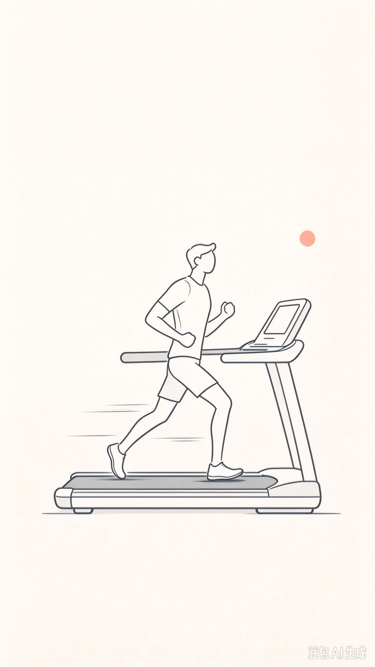
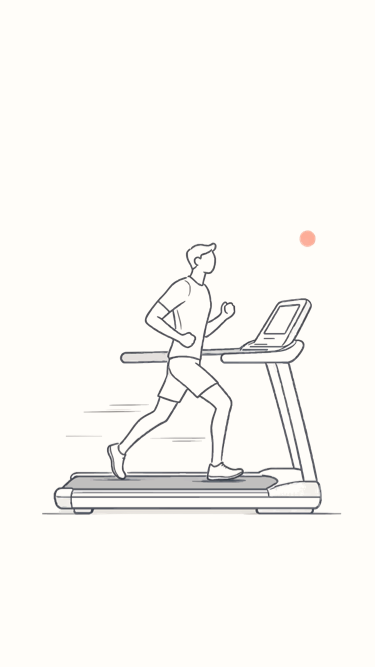
Replace launch artwork with treadmill SVG

diff --git a/Docs/LaunchScreen.md b/Docs/LaunchScreen.md
@@ -1,11 +1,13 @@
 # 启动图片（2026-10-15）
 
-- 来源：用户提供的 `Downloads/iOS App启动页设计.png`，1536×2730 PNG。项目保留原始图片内容，包括图内现有文字。
+- 来源：用户提供的 `Downloads/treadmill.svg`，1536×2730 SVG。项目将其等比栅格化为 PNG 供系统启动 storyboard 使用，图稿内容保持不变。
 - 资源：`FitnessAuto/Assets.xcassets/LaunchIllustration.imageset/LaunchIllustration.png`。
 - 系统启动页：`FitnessAuto/LaunchScreen.storyboard`；由现有 `UILaunchStoryboardName = LaunchScreen` 引用。
 - 图片视图覆盖根视图，使用 `scaleAspectFit` 完整等比显示；不同屏幕比例的空余区域使用 `LaunchBackground` 米白色，浅色和深色一致。
 - 启动页只有原图；旧标题、副标题及旧插图比例约束已移除。
 - 由系统控制显示时长，不额外增加业务加载页或延时。应用内训练、蓝牙和健康权限流程沿用原逻辑。
+
[1 lines of base64/hex data omitted]
 
 ## 验收范围
 
@@ -20,9 +22,9 @@
 
 - 构建号：`20261015.2`。
 - 功能子代理：完整 pytest **5 passed**；iPhone 与内嵌 Watch 模拟器构建通过。
-- 打包后 `UILaunchStoryboardName` 指向 `LaunchScreen`，PNG 与下载目录原图字节一致。既有 JSON 文件导入声明和原位置打开标志保持正常。
+- 打包后 `UILaunchStoryboardName` 指向 `LaunchScreen`，启动 PNG 按源 SVG 渲染后保持视觉与尺寸一致。既有 JSON 文件导入声明和原位置打开标志保持正常。
 - 构建日志：`/private/tmp/fitnessauto-launch-20261015-build.log`、`/private/tmp/fitnessauto-launch-20261015-build-incremental.log`。
-- UI 局部实绘：加载真实编译后的 `LaunchScreen.storyboardc` 和 `Assets.car`，393×852、375×667 及深色模式通过；只有一幅等比图片，无约束歧义和旧版标题，深浅图片一致。
-- 效果图：[长屏](Design/launch/launch-tall.png)、[短屏](Design/launch/launch-compact.png)、[深色](Design/launch/launch-dark.png)。这些是编译资源的独立预览，不代表真机启动停留时长。
+- UI 局部实绘：加载真实编译后的 `LaunchScreen.storyboardc` 和 `Assets.car`（17:51:20 构建），393×852、375×667 及深色模式通过；只有一幅等比图片，无约束歧义和旧版标题，当前 treadmill.svg 图稿完整显示。
+- 效果图：[长屏](Design/launch/launch-tall.png)、[短屏](Design/launch/launch-compact.png)、[深色](Design/launch/launch-dark.png)。这些是当前编译资源的独立预览，不代表真机启动停留时长。
 - 同一构建在专用模拟器冷启动后正常进入训练页：[进入训练页](Design/launch/launch-to-training.png)。UI 报告：`/private/tmp/fitnessauto-launch-ui-20261015/report.json`。
 - 功能和 UI 子代理均通过并已结束；临时测试模拟器已关闭并删除。尚未验证真机启动缓存或逐帧系统过渡。
